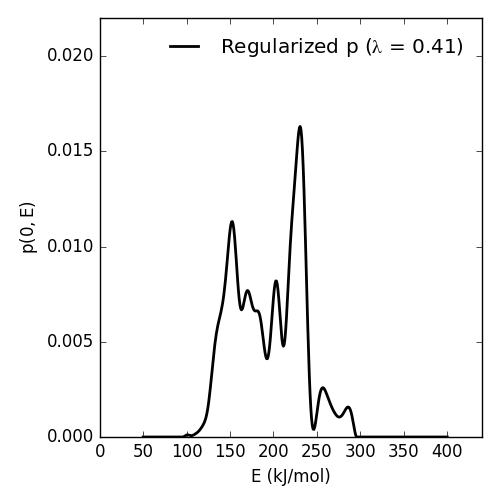
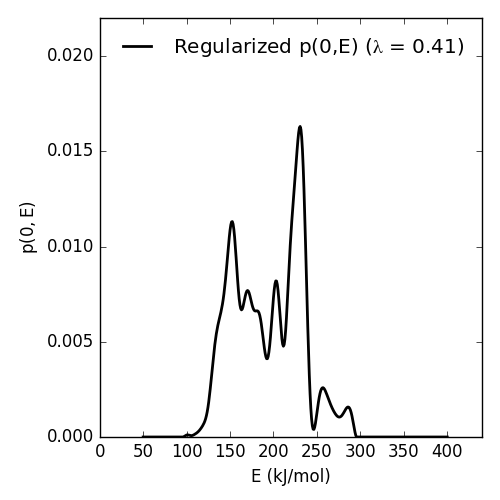
more documentation updates

diff --git a/rampedpyrox/results.py b/rampedpyrox/results.py
@@ -179,7 +179,7 @@ class Results(object):
 
 class RpoIsotopes(Results):
 	__doc__='''
-	Class for inputting Ramped PyrOx isotopes, calculating p0(E) contained in
+	Class for inputting Ramped PyrOx isotopes, calculating p(0,E) contained in
 	each RPO fraction, correcting isotope values for blank contribution, mass
 	balance, and kinetic fractionation (d13C only), and storing resulting data
 	and statistics.
@@ -228,7 +228,7 @@ class RpoIsotopes(Results):
 		d13C correction.
 
 	ratedata : rp.EnergyComplex
-		``rp.EnergyComplex`` instance containing p0(E) distribution for the
+		``rp.EnergyComplex`` instance containing p(0,E) distribution for the
 		thermogram associated with inputted isotopes. Used for calculating
 		the fractional E distributions and for KIE d13C correction.
 
@@ -323,7 +323,7 @@ class RpoIsotopes(Results):
 	1.8 J/mol. **NOTE:** See ``RpoIsotopes.from_csv`` documentation for
 	instructions on getting the .csv file in the right format.
 
-	Plotting resulting p0(E) contained in each RPO fraction::
+	Plotting resulting p(0,E) contained in each RPO fraction::
 
 		#import additional modules
 		import matplotlib.pyplot as plt
@@ -331,7 +331,7 @@ class RpoIsotopes(Results):
 		#create figure
 		fig, ax = plt.subplots(1,3)
 
-		#plot p0(E) distributions
+		#plot p(0,E) distributions
 		ax[0] = ri.plot(
 			ax = ax[0], 
 			plt_var = 'p0E')
@@ -918,7 +918,7 @@ class RpoIsotopes(Results):
 	#define plotting method
 	def plot(self, ax = None, plt_var = 'p0E', plt_corr = True):
 		'''
-		Method for plotting results, either p0(E) distributions contained
+		Method for plotting results, either p(0,E) distributions contained
 		within each RPO fraction or isotopes vs. mean E for each RPO fraction.
 
 		Parameters
@@ -929,7 +929,7 @@ class RpoIsotopes(Results):
 
 		plt_var : str
 			Tells the method which variable to plot, available options are:
-			'p0E' (for fraction-specific p0(E) distributions), 'Fm', and d13C
+			'p0E' (for fraction-specific p(0,E) distributions), 'Fm', and d13C
 			(isotope vs. fraction E scatter plots).
 
 		plt_corr : str
@@ -1002,7 +1002,7 @@ class RpoIsotopes(Results):
 
 		else:
 
-			#generate rd and md for p0(E) plots
+			#generate rd and md for p(0,E) plots
 			rd = (self._E, self._p)
 			md = (self._E, self._p_frac)
 

diff --git a/rampedpyrox/ratedata.py b/rampedpyrox/ratedata.py
@@ -220,7 +220,7 @@ class RateData(object):
 				rd[1],
 				linewidth = 2,
 				color = 'k',
-				label = r'Regularized p ($\lambda$ = %.2f)' %self.lam)
+				label = r'Regularized p(0,E) ($\lambda$ = %.2f)' %self.lam)
 
 			#set limits
 			ax.set_xlim([0, 1.1*np.max(rd[0])])
@@ -252,8 +252,8 @@ class EnergyComplex(RateData):
 		Array of activation energy, in kJ/mol. Length `nE`.
 
 	p : None or array-like
-		Array of the regularized pdf of the E distribution, p0E. Length `nE`.
-		Defaults to `None`.
+		Array of the regularized pdf of the E distribution, p(0,E). Length
+		`nE`. Defaults to `None`.
 
 	Raises
 	------
@@ -308,7 +308,7 @@ class EnergyComplex(RateData):
 		#create figure
 		fig, ax = plt.subplots(1,1)
 
-		#plot resulting E pdf, p0E
+		#plot resulting E pdf, p(0,E)
 		ax = ec.plot(ax = ax)
 
 	**Attributes**
@@ -478,7 +478,7 @@ class EnergyComplex(RateData):
 	#define plotting method
 	def plot(self, ax = None):
 		'''
-		Plots the pdf of E, p0E, against E.
+		Plots the pdf of E, p(0,E), against E.
 
 		Keyword Arguments
 		-----------------

diff --git a/rampedpyrox/model.py b/rampedpyrox/model.py
@@ -141,8 +141,8 @@ class Model(object):
 			3601-3612.
 
 		[2] P.C. Hansen (1994) Regularization tools: A Matlab package for 
-			analysis and solution of discrete ill-posed problems. *Numerical**
-			**Algorithms*, **6**, 1-35.
+			analysis and solution of discrete ill-posed problems. *Numerical*
+			*Algorithms*, **6**, 1-35.
 		'''
 
 		#check that nLam, lam_max, and lam_min are in the right form

diff --git a/docs/walkthrough.rst b/docs/walkthrough.rst
@@ -50,7 +50,7 @@ Basic runthrough::
 		blk_corr = True, #uses values for NOSAMS instrument
 		bulk_d13C_true = [-24.9, 0.1], #true d13C value
 		mass_err = 0.01,
-		DE = 0.0018) #value from Hemingway et al. (2017), Radiocarbon
+		DE = 0.0018) #from Hemingway et al. (2017), Radiocarbon
 
 	#compare corrected isotopes and E values
 	print(ri.ri_corr_info)
@@ -258,7 +258,7 @@ The inversion transform
 ~~~~~~~~~~~~~~~~~~~~~
 Once the ``rp.RpoThermogram`` instance has been created, you are ready to run the inversion model and generate a regularized and discretized probability density function (pdf) of the rate/activation energy distribution, `p`. For non-isothermal thermogram data, this is done using a first-order Distributed Activation Energy Model (DAEM) [3]_ by generating an ``rp.Daem`` instance containing the proper transform matrix, `A`, to translate between time and activation energy space [4]_. This matrix contains all the assumptions that go into building the DAEM inverse model as well as all of the information pertaining to experimental conditions (*e.g.* ramp rate) [5]_. Importantly, the transform matrix does not contain any information about the sample itself -- it is simply the model "design" -- and a single ``rp.Daem`` instance can be used for multiple samples provided they were analyzed under identical experimental conditions (however, this is not recommended, as subtle differences in experimental conditions such as ramp rate could exist).
 
-One critical user input for the DAEM is the Arrhenius pre-exponential factor, *omega* (inputted here in log\ :sub:`10`\  form). Because there is much discussion in the literature over the constancy and best choice of this parameter (the so-called 'kinetic compensation effect' or KCE [6]_), this package allows *log\ :sub:`10`\ omega* to be inputted as a constant, an array, or a function of E.
+One critical user input for the DAEM is the Arrhenius pre-exponential factor, *omega* (inputted here in log\ :sub:`10`\  form). Because there is much discussion in the literature over the constancy and best choice of this parameter (the so-called 'kinetic compensation effect' or KCE [6]_), this package allows *log10omega* to be inputted as a constant, an array, or a function of E.
 
 For convenience, you can create any model directly from either time data or rate data, rather than manually inputting time, temperature, and rate vectors. Here, I create a DAEM using the thermogram defined above and allow E to range from 50 to 400 kJ/mol::
 
@@ -297,7 +297,7 @@ Here, I calculate and plot L curve for the thermogram and model defined above::
 	plt.tight_layout()
 
 Resulting L-curve plot looks like this, here with a calculated best-fit lambda
-value of 0.484:
+value of 0.414:
 
 |lcurve|
 
@@ -589,9 +589,27 @@ Which generates a plot like this:
 
 Additional Notes on the Kinetic Isotope Effect (KIE)
 ~~~~~~~~~~~~~~~~~~~~~~~~~~~~~~~~~~~~~~~~~~~~~~~~~~~~
-While the KIE has no effect on Fm values since they are fractionation-corrected by definition [11]_, mass-dependent kinetic fractionation effects must be explicitly accounted for when estimating the source carbon stable isotope composition during any kinetic experiment. For example, the KIE can lead to large isotope fractionation during thermal generation of methane and natural gas over geologic timescales [8]_ or during photodegradation of organic carbon by *uv* light [15]_.
+While the KIE has no effect on Fm values since they are fractionation-corrected by definition [11]_, mass-dependent kinetic fractionation effects must be explicitly accounted for when estimating the source carbon stable isotope composition during any kinetic experiment. For example, the KIE can lead to large isotope fractionation during thermal generation of methane and natural gas over geologic timescales [8]_ or during photodegradation of organic carbon by *uv* light [12]_.
 
 As such, the ``rampedpyrox`` package allows for direct input of `DE` values [DE = E(:sup:`13`\ C) - E(:sup:`12`\ C), in kJ/mol] when correcting Ramped PyrOx isotopes. However, the magnitude of this effect is likely minimal within the NOSAMS Ramped PyrOx instrument -- Hemingway et al. (2017), *Radiocarbon* determined a best-fit value of 0.3e-3 - 1.8e-3 kJ/mol for a suite of standard reference materials [9]_ -- and will therefore lead to small isotope corrections for samples analyzed on this instrument (*i.e.* << 1 per mille)
+
+Plotting raw thermogram and isotope data
+~~~~~~~~~~~~~~~~~~~~~~~~~~~~~~~~~~~~~~~~
+Finally, once a thermogram and isotope result instance have been made, once can additionally plot the raw thermogram and isotope data according to::
+
+	#make a figure
+	fig,ax = plt.subplots(1, 1, 
+		figsize = (5,5))
+
+	#plot results
+	ax = rp.plot_tg_isotopes(tg, ri, ax = ax)
+
+	plt.tight_layout()
+
+Resulting thermogram and isotope plot looks like this:
+
+|rawdata|
+
 
 Notes and References
 --------------------
@@ -607,6 +625,8 @@ Notes and References
 .. |fastmodeleddata| image:: _images/doc_fast_modeleddata.png
 
 .. |isotopes| image:: _images/doc_isotopes.png
+
+.. |rawdata| image:: _images/doc_rawdata.png
 
 .. [1] Note: If analyzing samples run at NOSAMS, all other columns in the `tg_data` file generated by LabView are not used and can be deleted or given an arbitrary name.
 
@@ -629,3 +649,5 @@ Notes and References
 .. [10] Blank composition calculated for other Ramped PyrOx instuments can be inputted by changing the default ``blk_d13C``, ``blk_flux``, and ``blk_Fm`` parameters.
 
 .. [11] See Stuiver and Polach (1977), *Radiocarbon*, **19(3)**, 355-363 for radiocarbon notation and data treatment.
+
+.. [12] See Follett et al. (2014), *PNAS*, **111**, 16706-16711 for details on serial oxidation of DOC by *uv* light.

diff --git a/README.rst b/README.rst
@@ -26,7 +26,7 @@ How to Cite
 When analyzing data with ``rampedpyrox`` to be used in a peer-reviewed
 journal, please cite this package as:
 
-* J.D. Hemingway. *rampedpyrox*: open-source tools for thermoanalytical data analysis, 2016-, http://github.com/FluvialSeds/rampedpyrox [online; accessed |date|]
+* J.D. Hemingway. *rampedpyrox*: open-source tools for thermoanalytical data analysis, 2016-, http://pypi.python.org/rampedpyrox [online; accessed |date|]
 
 Additionally, please cite the following peer-reviewed manuscript describing the deveopment of the package and Ramped PyrOx data treatment:
 

diff --git a/docs/index.rst b/docs/index.rst
@@ -34,7 +34,7 @@ How to Cite
 When analyzing data with ``rampedpyrox`` to be used in a peer-reviewed
 journal, please cite this package as:
 
-* J.D. Hemingway. *rampedpyrox*: open-source tools for thermoanalytical data analysis, 2016-, http://github.com/FluvialSeds/rampedpyrox [online; accessed |date|]
+* J.D. Hemingway. *rampedpyrox*: open-source tools for thermoanalytical data analysis, 2016-, http://pypi.python.org/rampedpyrox [online; accessed |date|]
 
 Additionally, please cite the following peer-reviewed manuscript describing the deveopment of the package and Ramped PyrOx data treatment:
 
